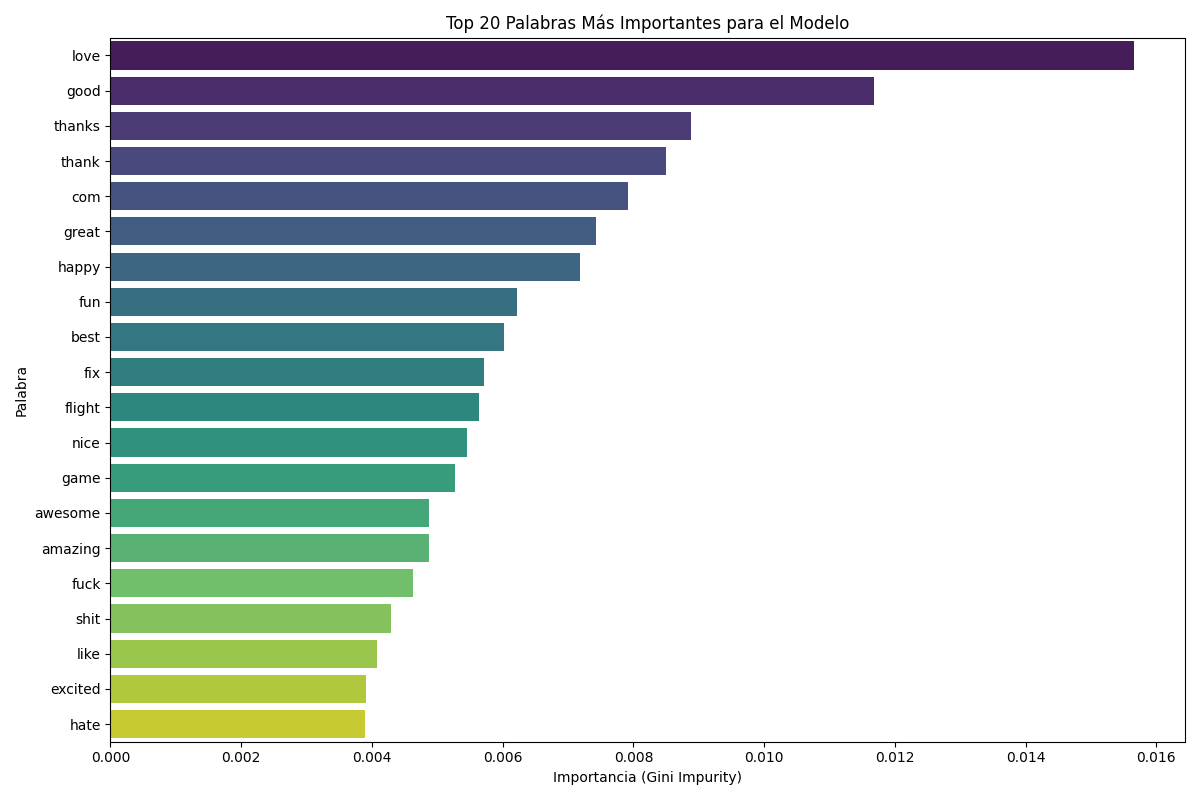
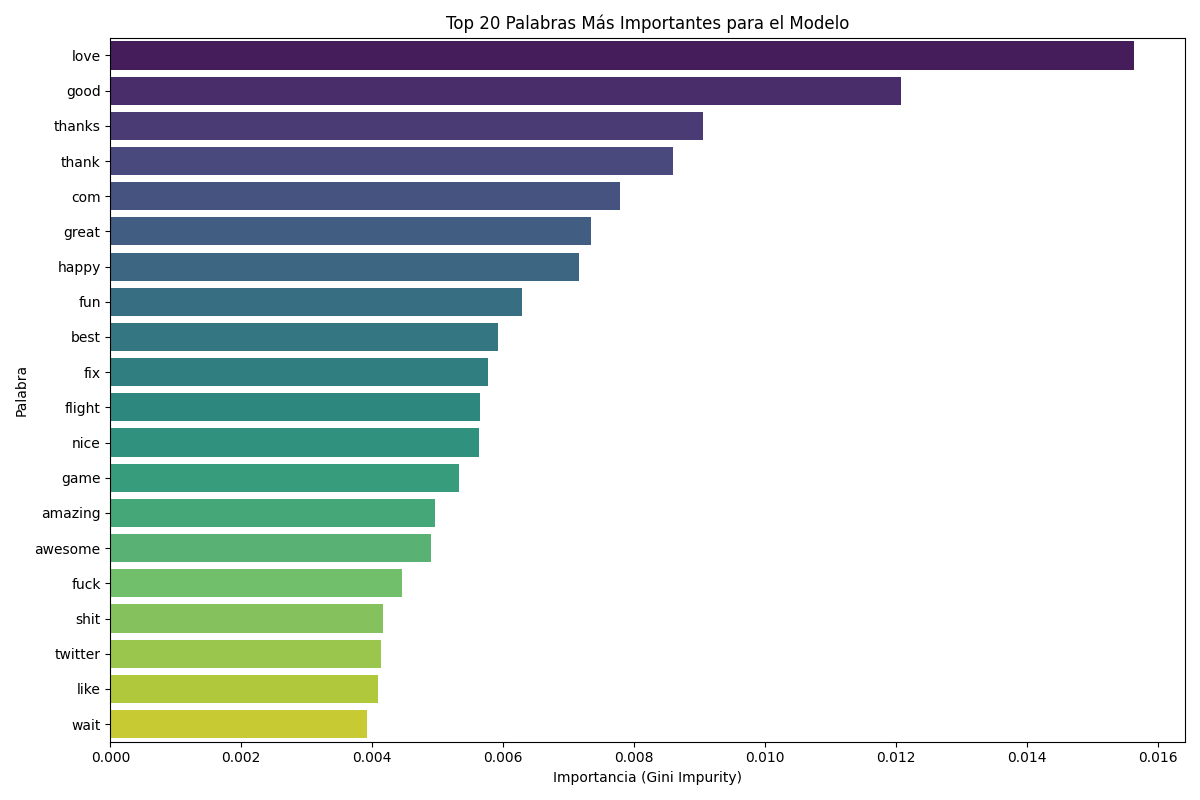
mover cosas de carpetas

diff --git a/entrenamiento_final.py b/entrenamiento_final.py
@@ -60,11 +60,11 @@ def main():
     
     pipeline = Pipeline([
         ('tfidf', TfidfVectorizer(max_features=5000)),
-        ('clf', RandomForestClassifier(n_estimators=200, max_depth=600, random_state=42, n_jobs=-1))
+        ('clf', RandomForestClassifier(n_estimators=200, max_depth=600, class_weight='balanced', random_state=42, n_jobs=-1))
     ])
     
     pipeline.fit(df_train_total['text_clean'], df_train_total['label'])
-    joblib.dump(pipeline, 'modelo_final_pro.pkl')
+    joblib.dump(pipeline, 'modelo_final_rfb.pkl')
     print("   -> 💾 Modelo guardado.")
 
     # ==============================================================================
